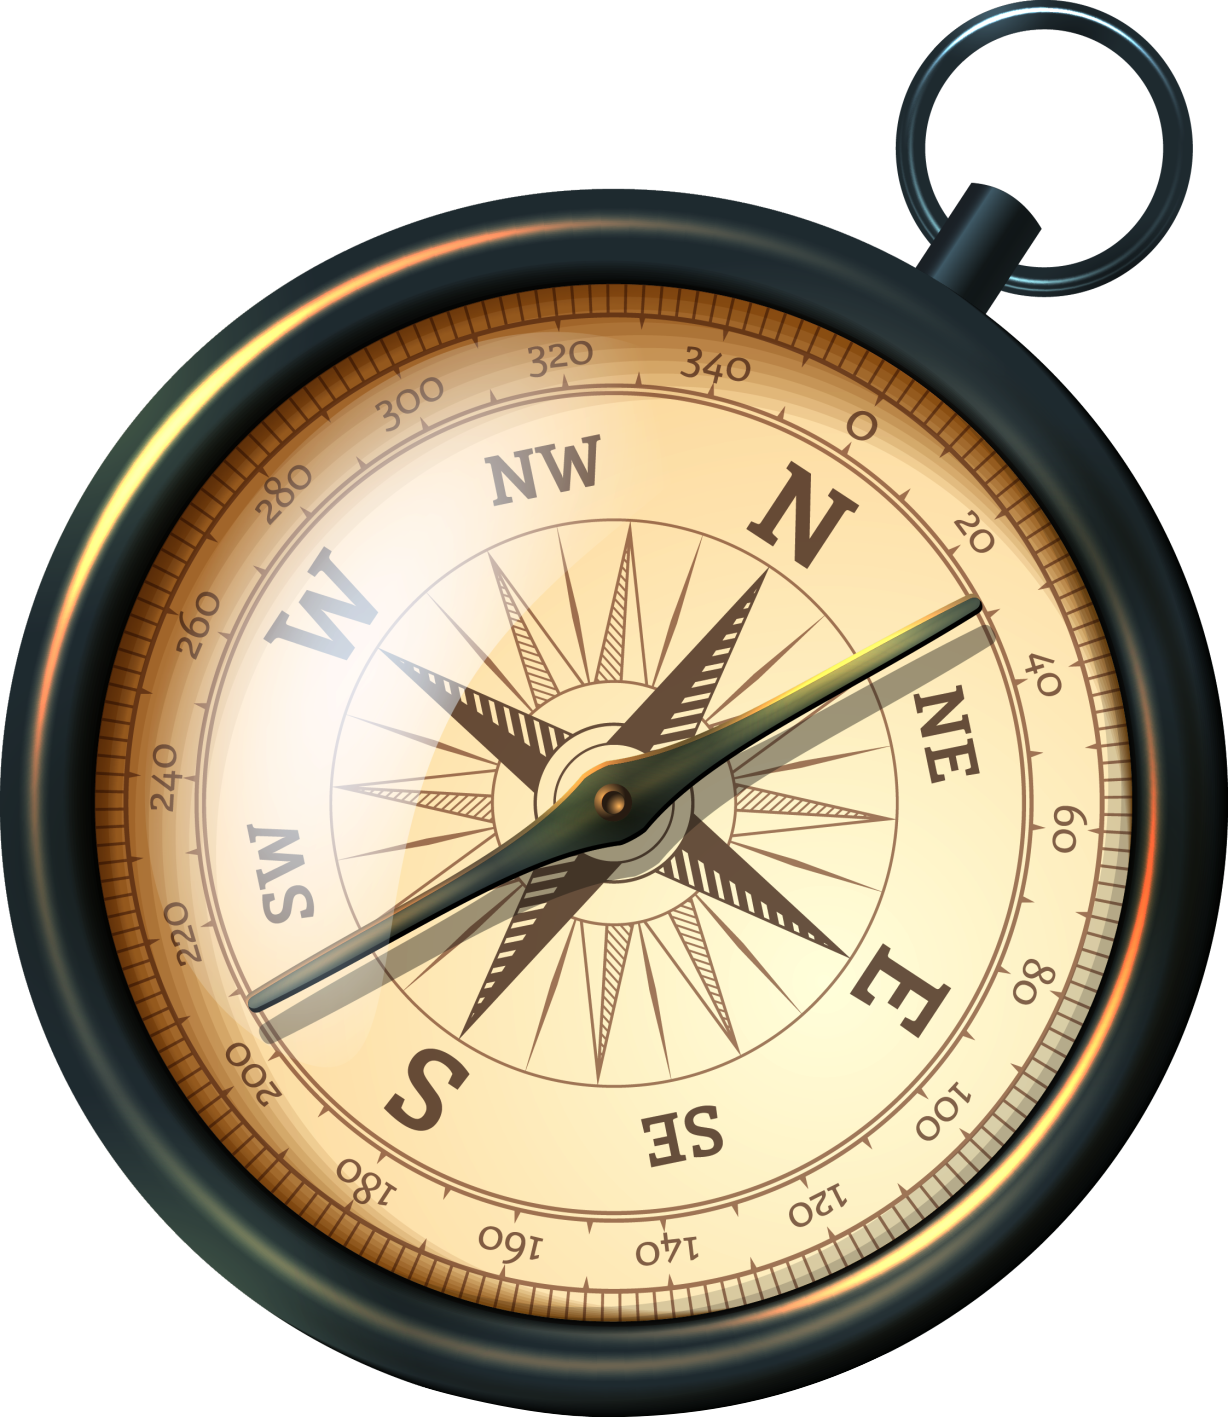
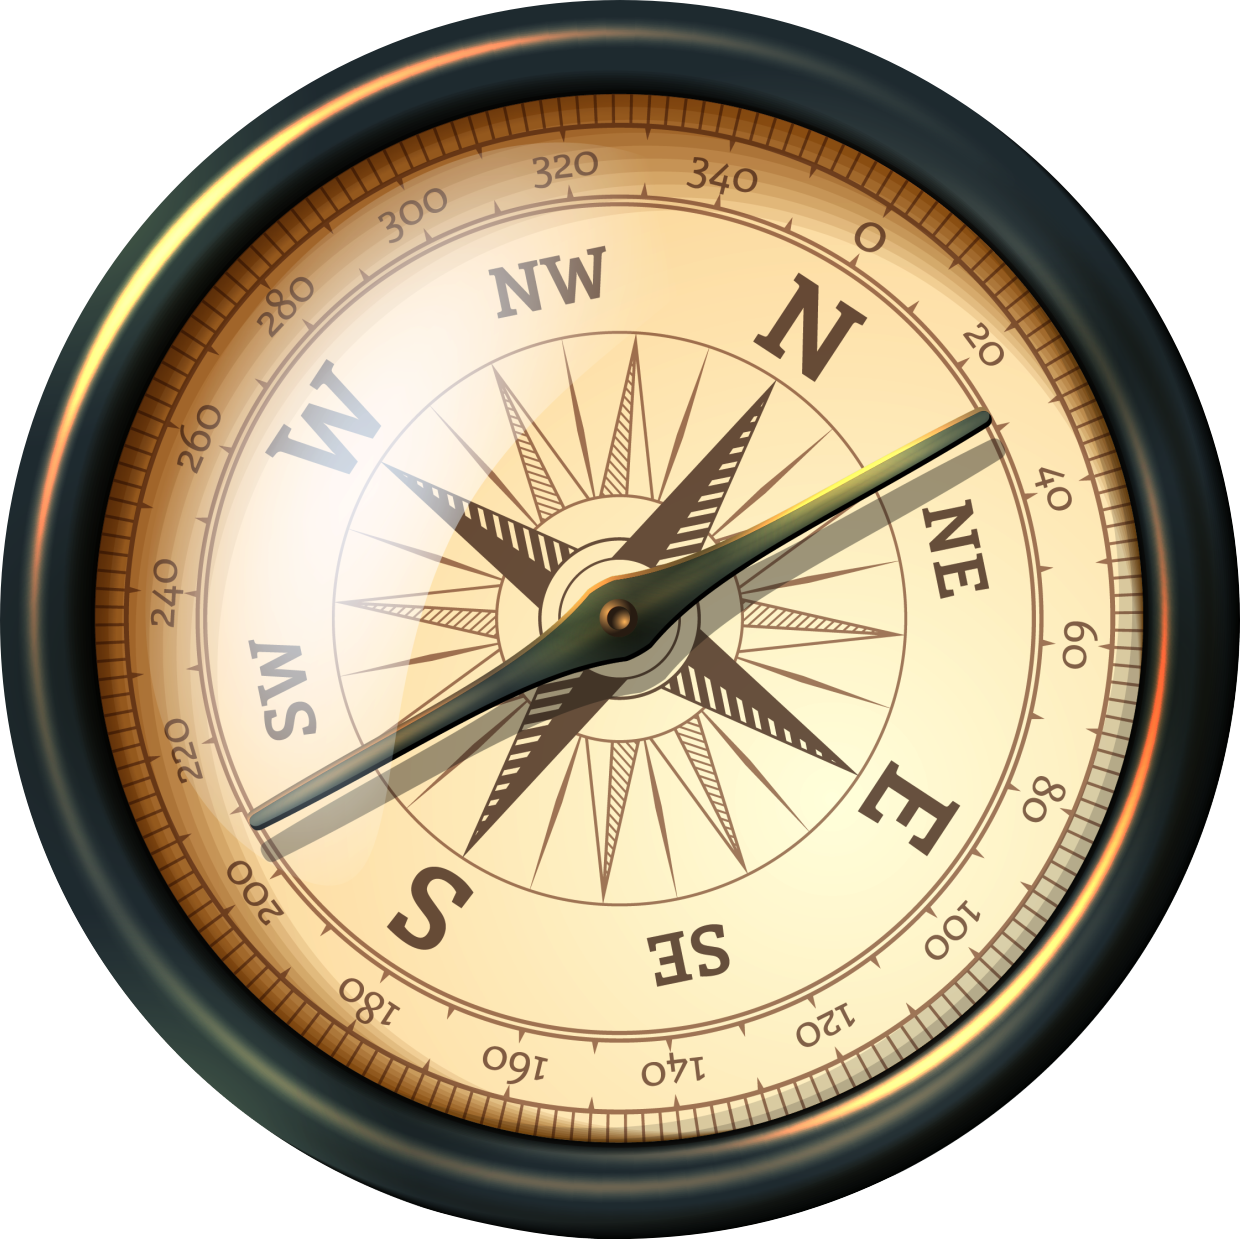
styling

diff --git a/src/components/lpSections/LPHomeStrategyValue.tsx b/src/components/lpSections/LPHomeStrategyValue.tsx
@@ -90,6 +90,14 @@ export const LPHomeStrategyValue = (props: StackProps) => {
   // Anmation
   useGSAP(
     () => {
+      gsap.to(".compass", {
+        rotation: 360,
+        duration: 60,
+        repeat: -1,
+        ease: "linear",
+        transformOrigin: "50% 50%",
+      });
+
       gsap.from(".section_title", {
         y: "100%",
         opacity: 0,
@@ -245,6 +253,7 @@ export const LPHomeStrategyValue = (props: StackProps) => {
         </HStack>
 
         <Img
+          className="compass"
           src={`${IMAGES_PATH}/compass.png`}
           aspectRatio={1}
           h={"500px"}
